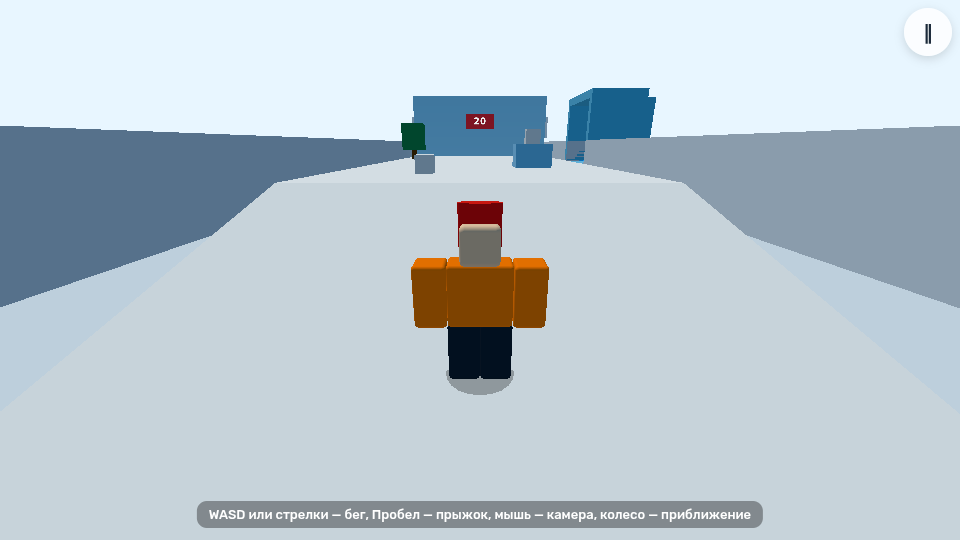
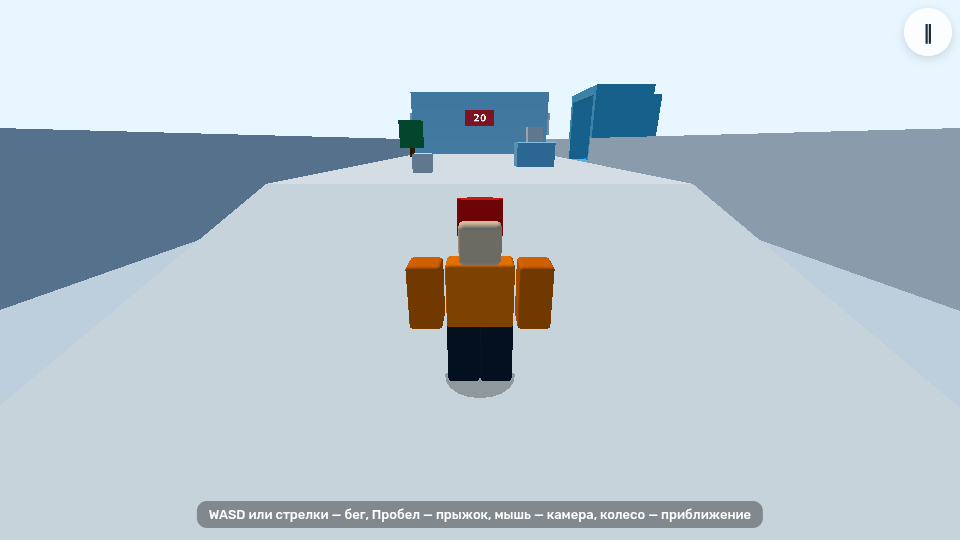
Руки героя отдельно от торса; решения Q-020, Q-021 перед M2
Claude-Session: https://claude.ai/code/session_01Kbf45bDmUs4E6pkUCdNnnJ

diff --git a/src/render/characters.ts b/src/render/characters.ts
@@ -408,7 +408,7 @@ if (vObjNormal.z > 0.6) {
           [0, armL, -1],
           [1, armR, 1],
         ] as const) {
-          _dummy.position.set(sx * (PART.torso.w / 2 + PART.arm.w / 2 + 0.02), armPivotY, 0);
+          _dummy.position.set(sx * (PART.torso.w / 2 + PART.arm.w / 2 + 0.12), armPivotY, 0);
           _dummy.rotation.set(rot, 0, 0);
           _dummy.updateMatrix();
           const pivot = _dummy.matrix.clone();

diff --git a/QUESTIONS.md b/QUESTIONS.md
@@ -145,3 +145,16 @@
 - Решение продюсера (04.10): герой — классические блочные пропорции (голова 1, торс 2×2×1, конечности 1×2×1) в нашем образе «Мандарин»; камера ближе (герой около четверти высоты экрана); темп шагов около 4,5 в секунду; HUD по канону ниши там, где это не спорит с правилами Яндекса: полоса цели внизу по центру, кнопки «▶ Реклама» в один ряд внизу, «+N» у ног героя, объявление локации с рекомендованным уровнем, таблица «Топ по кубкам» на стене лагеря
 - Как сделано на M1: пропорции героя и камера (`tuning.json`: distance 10, height 3,5, pitch 20°, zoom 6–20) — внесены. HUD, объявления и таблица — в M2–M3 по мере появления петли и меты; расхождения с `01` 10.1 записываются в `docs/допущения.md`
 - Статус: решён
+
+### Q-020 · Великаны-боссы как вторая угроза рядом с лавиной · решён
+- Где: `docs/01-gdd.md` раздел 4 (лавина), `docs/02-tech.md` раздел 8 (угроза `wave`), `feature_list.json` (фич про боссов нет)
+- Решение продюсера (04.10): соединяем два жанра — лавина остаётся главной фишкой, плюс великан-босс, который шагает по трассе навстречу; боссов может быть меньше, чем в играх ориентира (не на каждой горе)
+- Как делаем: угроза `giant` как новый вид в данных (`worlds.json` → `threat`/`boss`), логика рядом с лавиной в `src/sim/`, визуал — блочный великан из тех же частей, что герой, инстансингом. Сначала M2 с лавиной (P0 по ТЗ), затем в итоге M2 — оценка великана (сколько гор, какие числа, сколько сессий) и отдельный пункт плана; реализация после M3, чтобы не сдвинуть контрольную точку
+- Как переключить: количество и места боссов — данными `worlds.json`, без кода
+- Статус: решён, оценка в итоге M2
+
+### Q-021 · Пропорции героя «1 в 1 с классикой» · решён
+- Где: `src/render/characters.ts` (`PART`), `content/avalanche/skins.json`
+- Суть: продюсеру руки показались толстыми и широкими. Пропорции уже классические (голова 1,2, торс 2×2×1, руки и ноги 1×2×1 в масштабе роста 5 ед); сливались из-за одинакового цвета торса и рукавов и нулевого зазора
+- Решение (04.10, по замечанию продюсера): зазор 0,12 ед между рукой и торсом, рукава на тон темнее куртки (данные `skins.json`), образ дорабатывается позже отдельно
+- Статус: решён

diff --git a/progress.md b/progress.md
@@ -37,6 +37,11 @@
 
 ## Записи
 
+### 2026-10-04 · решения продюсера перед M2 (Q-020, Q-021)
+- Решено: великаны-боссы как вторая угроза рядом с лавиной (Q-020): реализация после M3, оценка в итоге M2, количество и места — данными. Руки героя отделены от торса (зазор 0,12, рукава на тон темнее, Q-021)
+- Тесты: `npm test` — 66; e2e `characters`, `camera` — 4
+- Дальше: M2-01 в новой сессии (стартовая фраза выдана продюсеру в чате)
+
 ### 2026-10-04 · герой и камера по эталону продюсера (Q-019)
 - Сделано: герой переведён на классические блочные пропорции (голова 1,14, торс 1,9×1,9×0,95, конечности 0,95×1,9, рост 5 ед, 6 вызовов отрисовки), шапка подогнана; камера ближе (`tuning.json`: distance 10, height 3,5, pitch 20°, zoom 6–20) — герой занимает около четверти высоты экрана, как в ориентире; размах рук и ног в беге до ±57° на полной скорости; правила про видео-эталоны и экономию записаны в `CLAUDE.md`; Q-018 (CC0-наборы, M5) и Q-019 (эталон) в `QUESTIONS.md`, допущение 12
 - Разбор эталона (только в чате, в репозиторий не кладётся): темп шагов ориентира 4,3–4,7 в секунду против наших 4,0 при базовой скорости; «босс» ориентира — шагающая угроза на трассе, аналог нашей лавины; HUD ориентира: полоса уровня внизу по центру, три кнопки рекламы в ряд под ней, «+1» у ног, объявление локации с рекомендованным уровнем, таблица «Топ по кубкам» на стене лагеря, магазин с вкладками паки, следы, бусты, дорожки, опыт — переносится в M2–M3
